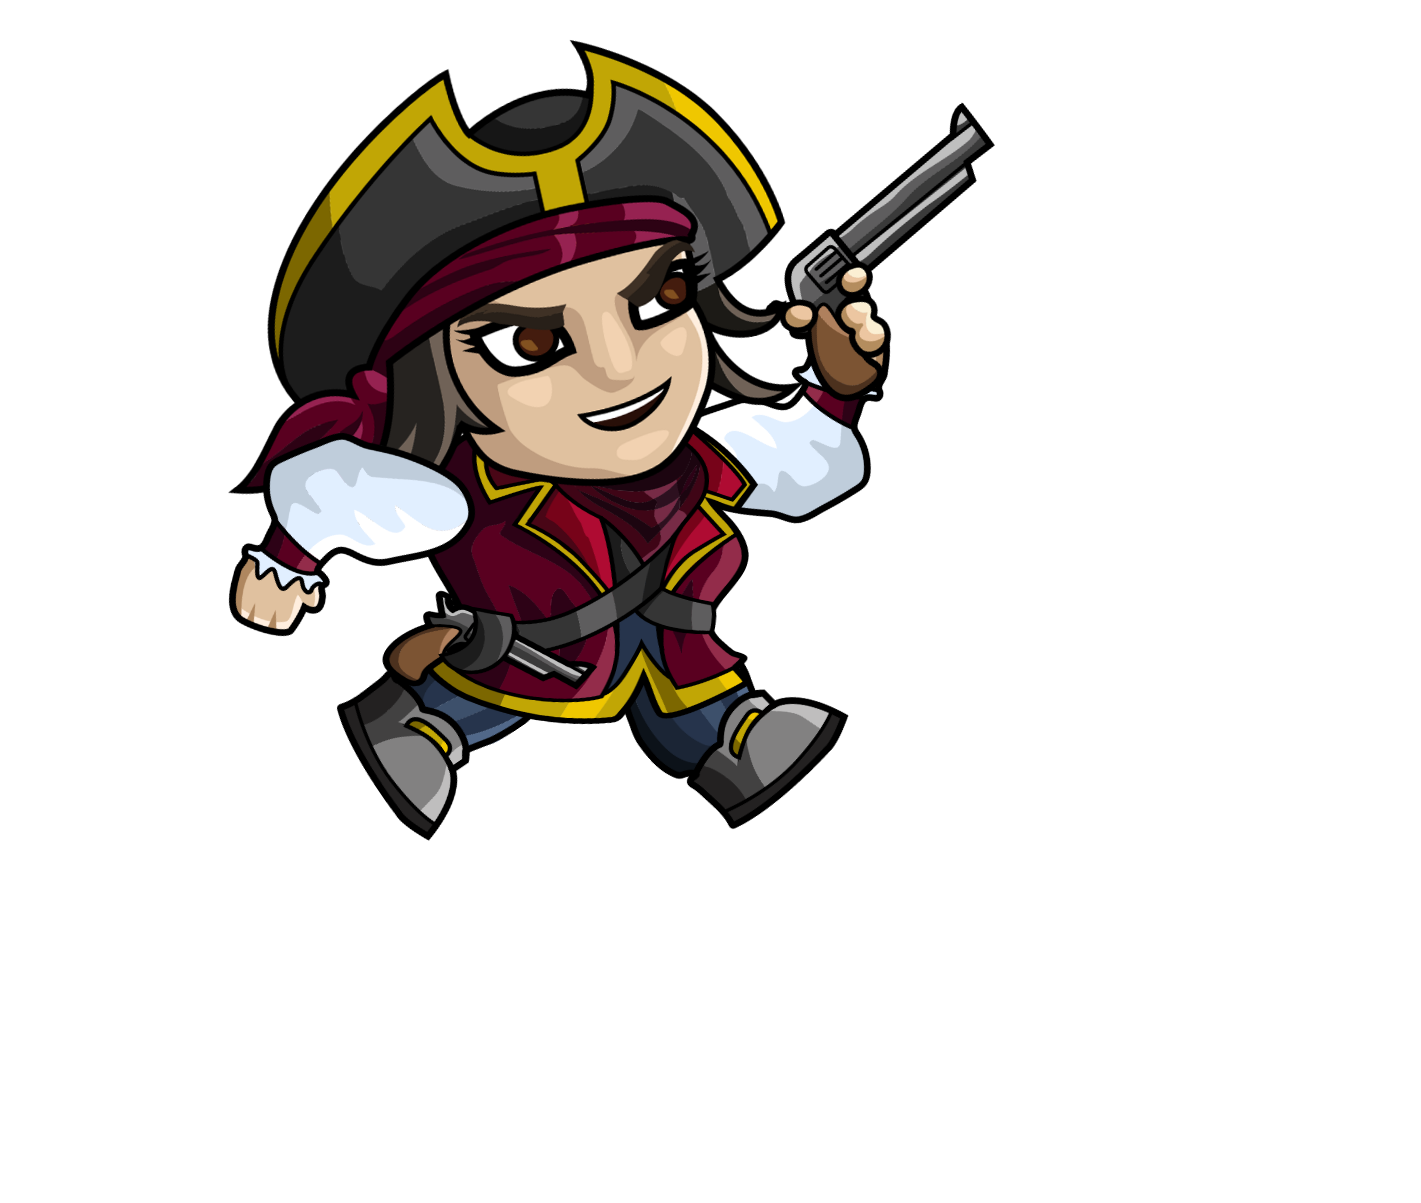
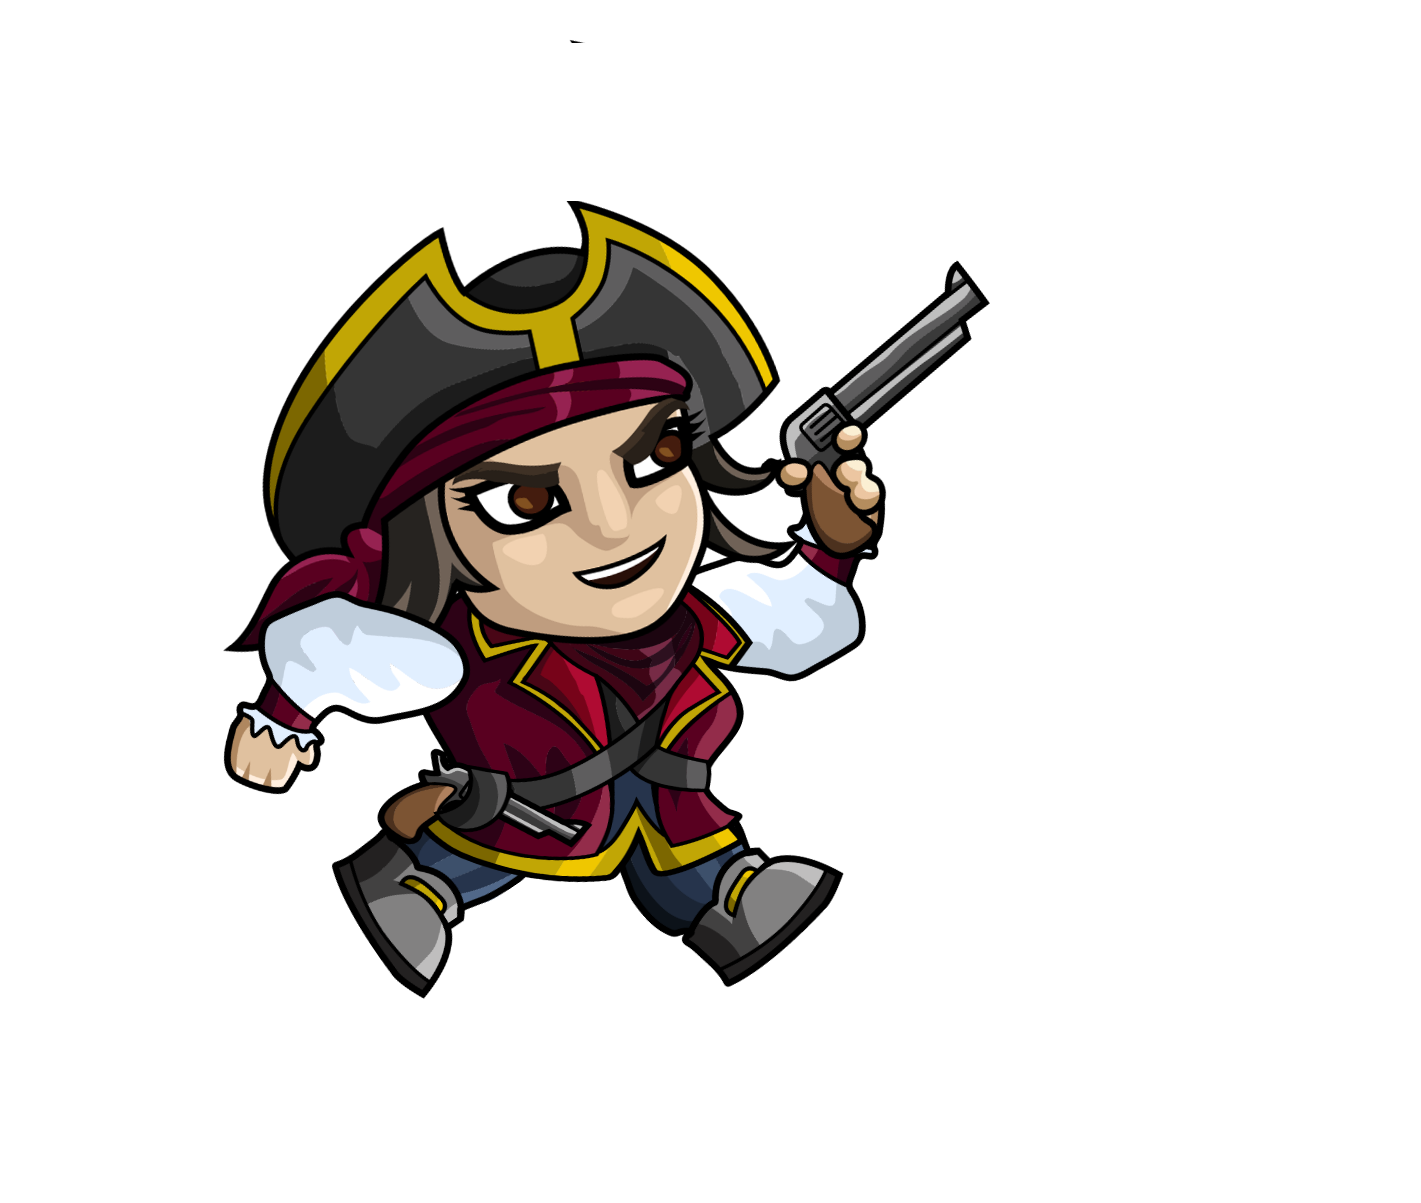
cropped images

Changed region(s): [[0.1548, 0.0308, 0.7122, 0.8304]]

diff --git a/player.py b/player.py
@@ -2,29 +2,20 @@ import pygame
 from pygame import *
 from loguru import logger
 
-player_img = 'img/player_img/2_entity_000_IDLE_000.png'
-
 class Player(pygame.sprite.Sprite):
 
     def __init__(self, start_x, start_y, width, height):
         pygame.sprite.Sprite.__init__(self)
-
+       
+        self.width = width
+        self.height = height
+        
         self.idleSprites = []
-        for i in range(7):
-            self.idleSprites.append(pygame.transform.scale(pygame.image.load('img/player_img/2_entity_000_IDLE_00' + str(i) + '.png'), (width, height)))
-
         self.runRightSprites = []
-        for i in range(7):
-            self.runRightSprites.append(pygame.transform.scale(pygame.image.load('img/player_img/2_entity_000_RUN_00' + str(i) + '.png'), (width, height)))
-        
         self.runLeftSprites = []
-        for i in range(7):
-            self.runLeftSprites.append(pygame.transform.flip(pygame.transform.scale(pygame.image.load('img/player_img/2_entity_000_RUN_00' + str(i) + '.png'), (width, height)),True, False))
-        
         self.jumpSprites = []
-        for i in range(7):
-            self.jumpSprites.append(pygame.transform.scale(pygame.image.load('img/player_img/2_entity_000_JUMP_00' + str(i) + '.png'), (width, height)))
-
+        self.loadSprites()
+    
         self.currentSprite = 0
         self.spriteLoopSpeed = 0.3
         self.image = self.idleSprites[self.currentSprite]
@@ -45,6 +36,24 @@ class Player(pygame.sprite.Sprite):
 
         logger.info("Created player object")
 
+    def loadSprites(self): 
+        for i in range(7):
+            player_img = pygame.image.load('img/player_img/2_entity_000_IDLE_00' + str(i) + '.png')
+            player_img_cropped = player_img.subsurface(pygame.Rect(200, 250, 825, 850))
+            self.idleSprites.append(pygame.transform.scale(player_img_cropped, (self.width, self.height)))
+        for i in range(7):
+            player_img = pygame.image.load('img/player_img/2_entity_000_RUN_00' + str(i) + '.png')
+            player_img_cropped = player_img.subsurface(pygame.Rect(200, 250, 825, 850))
+            self.runRightSprites.append(pygame.transform.scale(player_img_cropped, (self.width, self.height)))
+        for i in range(7):
+            player_img = pygame.image.load('img/player_img/2_entity_000_RUN_00' + str(i) + '.png')
+            player_img_cropped = player_img.subsurface(pygame.Rect(200, 250, 825, 850))
+            self.runLeftSprites.append(pygame.transform.flip(pygame.transform.scale(player_img_cropped, (self.width, self.height)),True, False))
+        for i in range(7):
+            player_img = pygame.image.load('img/player_img/2_entity_000_JUMP_00' + str(i) + '.png')
+            player_img_cropped = player_img.subsurface(pygame.Rect(200, 250, 825, 850))
+            self.jumpSprites.append(pygame.transform.scale(player_img_cropped, (self.width, self.height)))
+
     def getCamOffset(self):
         return self.playerPos.x - 300                                          #Player in the middle of the screen
 
@@ -59,7 +68,7 @@ class Player(pygame.sprite.Sprite):
 
     def animation(self, screen):
         if self.currentAnimation == "idle":
-            self.image = self.idleSprites[int(self.currentSprite)]
+            self.image = self.idleSprites[int(self.currentSprite)] #self.image = pygame.transform.scale(pygame.image.load('img/player_img/test_idle.png'), (40, 60))
         if self.currentAnimation == "runRight":
             self.image = self.runRightSprites[int(self.currentSprite)]    
         if self.currentAnimation == "runLeft":
@@ -74,10 +83,10 @@ class Player(pygame.sprite.Sprite):
             self.playerPos.y = self.playerPos.y + self.speed_y    
             self.speed_y = self.speed_y + self.gravity
         if self.speed_y >= 0 and collided_y > 0 :#and self.world.check_player_collision_sideblock(self.playerPos) == 1:                                
-            self.playerPos.y = collided_y + 5                                                                                                                #+5 damit der Player nicht über Block schwebt
+            self.playerPos.y = collided_y                                                                                                          #+5 damit der Player nicht über Block schwebt
             self.speed_y = 0        
         self.base.y = self.playerPos.y + self.playerPos.height                                                                    
-        self.rect.y = self.playerPos.y
+        self.rect.y = self.playerPos.y 
 
     def movement(self):
         """Handles the movement of the player

diff --git a/world.py b/world.py
@@ -6,9 +6,6 @@ bg_img = pygame.image.load('img/background_img/bg.jpg')
 bg_img = pygame.transform.scale(bg_img, (1520, 800))
 position = (0, 0)
 
-block_img = pygame.image.load('img/ground/spaceground.png')
-block_img = pygame.transform.scale(block_img, (60, 60))
-
 class World:                                                                    #Konstruktor aus Buch (Buch angeben)
     def __init__(self, level, block_size, platform_color, player):
         self.level = level
@@ -18,6 +15,9 @@ class World:                                                                    
         self.platforms = []
         self.posn_x = 0
         self.posn_y = 0
+
+        self.block_img = pygame.image.load('img/ground/spaceground.png')
+        self.block_img = pygame.transform.scale(self.block_img, (block_size, block_size))
 
         for line in self.level:
             self.posn_x = 0
@@ -29,7 +29,7 @@ class World:                                                                    
 
     def update(self,screen):
         for block in self.platforms:
-            screen.blit(block_img, (block.x-self.player.getCamOffset(), block.y))
+            screen.blit(self.block_img, (block.x-self.player.getCamOffset(), block.y))
 
     def main(self, screen):
         self.check_player_collision_bottomblock(self.player.playerPos)
@@ -40,12 +40,13 @@ class World:                                                                    
         return_y = -1
         for block in self.platforms:
             if block.colliderect(player_rect):
-                return_y = block.y - block.height + 1                
+                return_y = block.y - block.height #+ 1                
         return return_y
     
     def check_player_collision_sideblock(self, player_rect):                  #Unschöne Funktion, aber funktioniert
         for block in self.platforms:
             if block.colliderect(player_rect) and block.y < (player_rect.y + (player_rect.height/2)) < block.y + block.height: 
+                print("block.y: " + str(block.y) + " player_rect.y: " + str(player_rect.y + (player_rect.height/2)) + " player_rect.height: " + str(block.y + block.height))
                 if block.x > player_rect.x:
                     return -1
                 elif block.x < player_rect.x:

diff --git a/game.py b/game.py
@@ -22,7 +22,7 @@ class MyGame:
              "               BBBB                                 ",
              "            BBB    BBB                           ",
              "         BBBB            BBB                      ",
-             "     BBBBB                         BBBBBBB              ",
+             " BB                                  BBBBBBB              ",
              "BBBBBBBBBBBBBBBBBBBBBBBBBBBBBBBBBBBBBBBBBBBBBBBBBBBBBBBBBBBBBBBBBBBBBBBBBBBBBBBBBBBBBBBBBBBBBBBBBBBBBBBBBBBBB"]
 
     def __init__(self):
